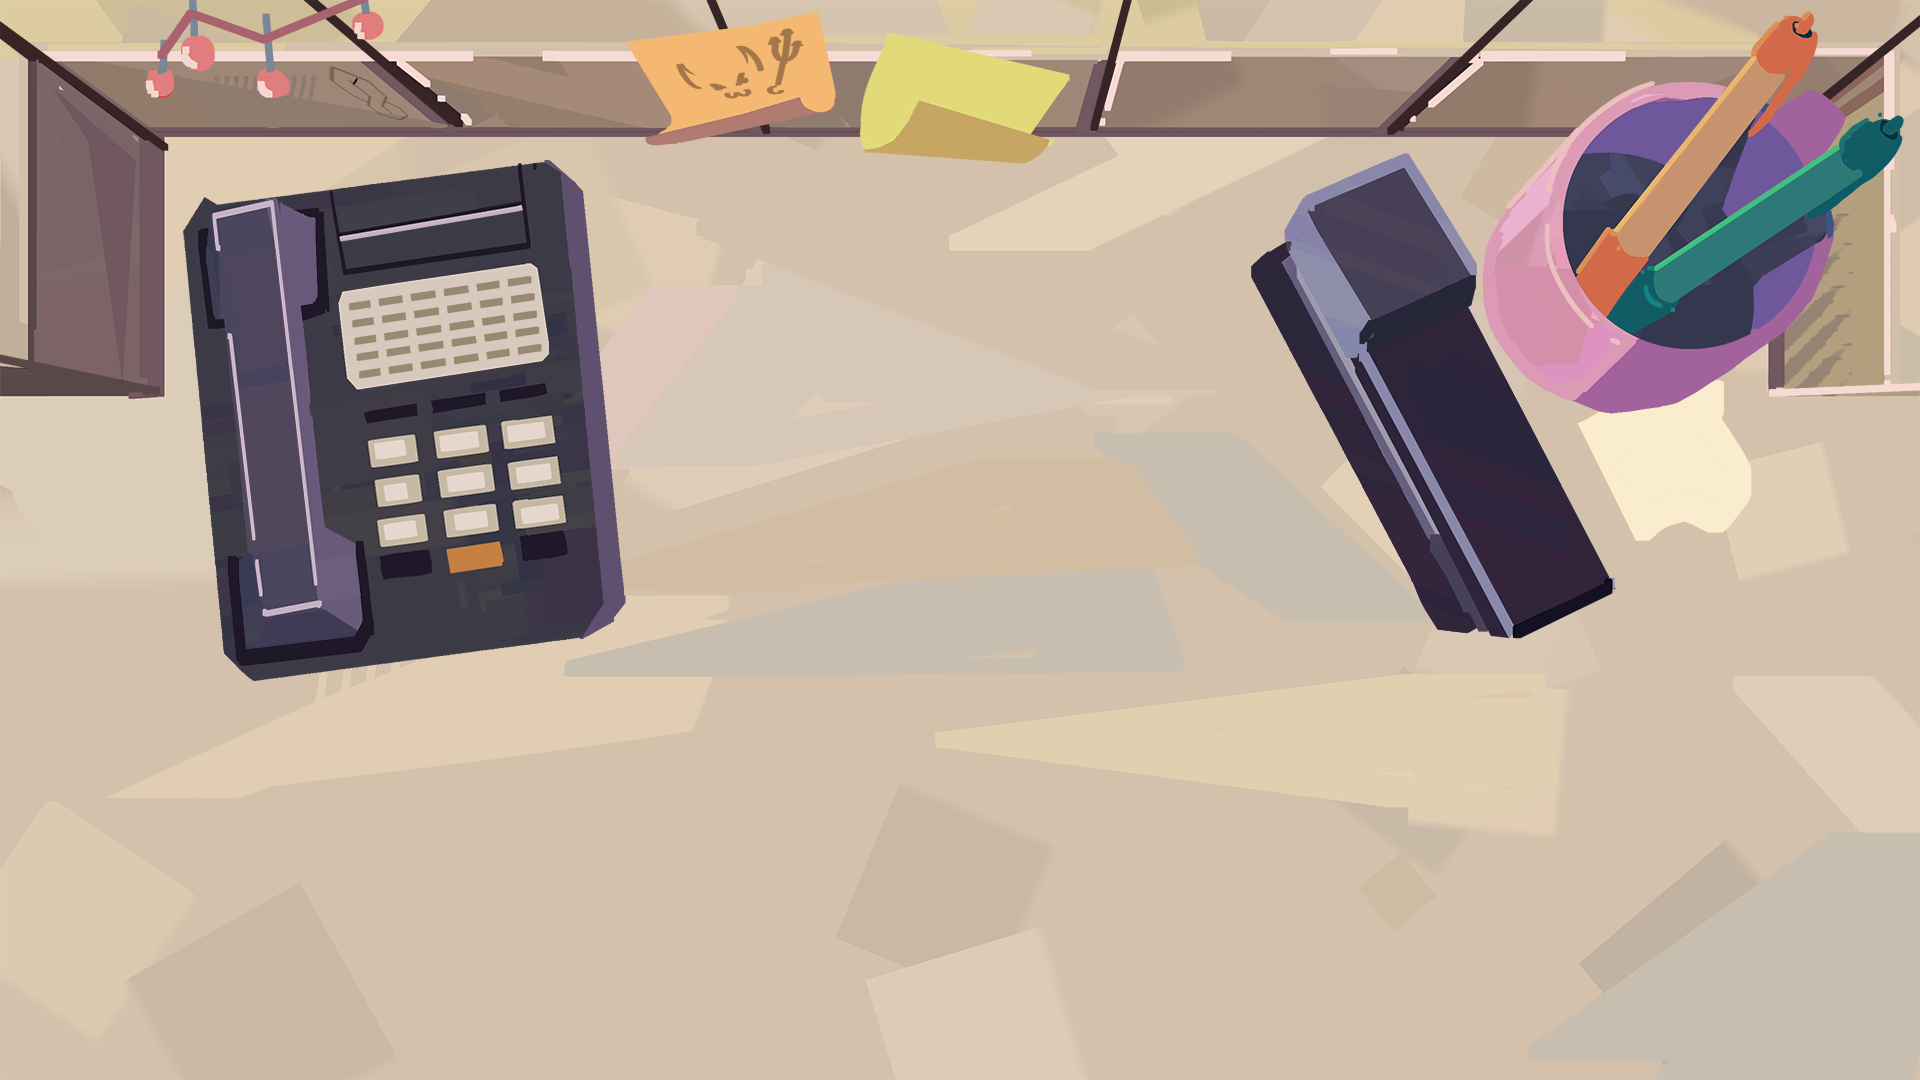
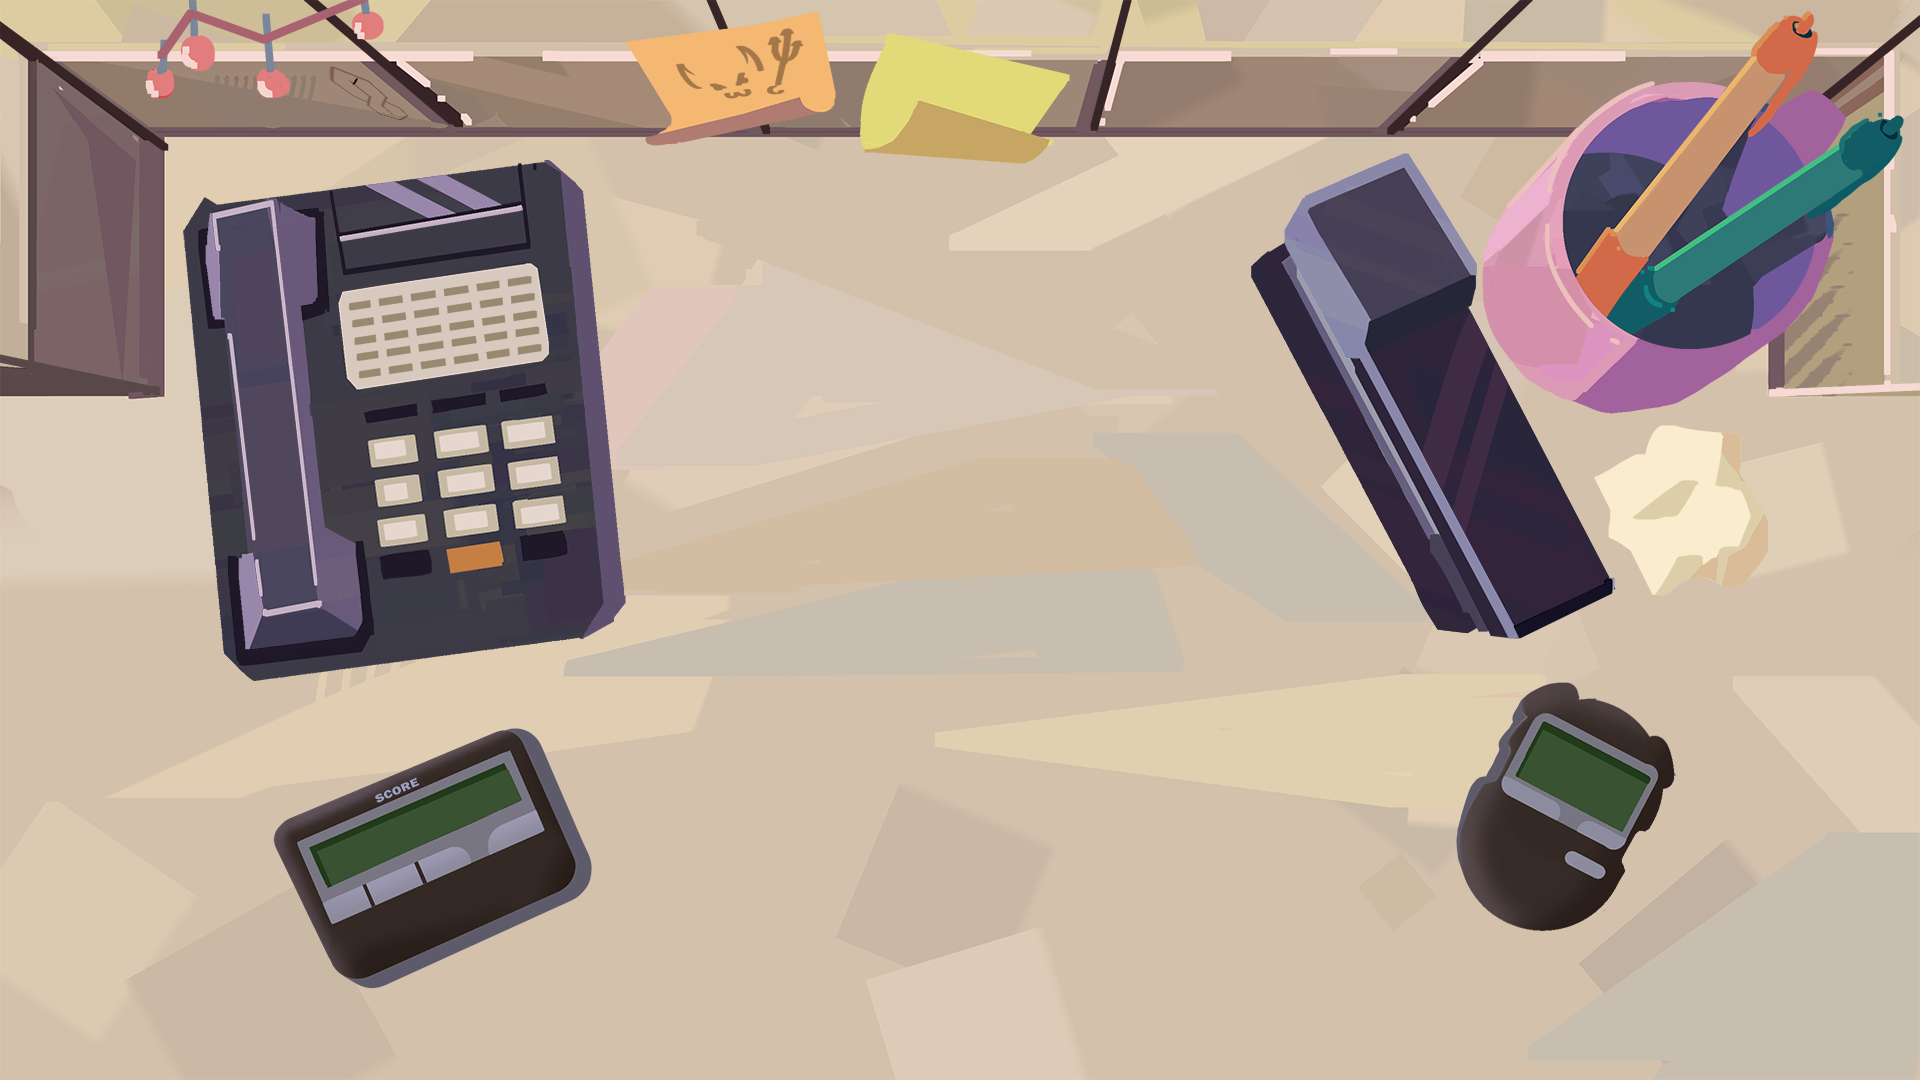
update desk, score, timer

diff --git a/src/scenes/Game.ts b/src/scenes/Game.ts
@@ -1,7 +1,15 @@
 import { Scene } from "phaser";
 import { Paper as Paper } from "../objects/Paper";
-import Button from "../objects/Button";
 import Lives from "../objects/Lives";
+
+const scoreFormatter = new Intl.NumberFormat("en-US", {
+  minimumIntegerDigits: 8,
+  useGrouping: false,
+});
+
+const timeFormatter = new Intl.NumberFormat("en-US", {
+  minimumIntegerDigits: 2,
+});
 
 const MUSIC = ["thisjobsucks", "middayslump", "delicate"];
 const AVAILABLE_GAMES = [
@@ -73,35 +81,43 @@ export class Game extends Scene {
       .setActive(false);
 
     this.beatTheClockText = this.add
-      .text(20, 950, "Beat the clock", {
+      .text(1400, 840, "Beat the clock", {
         fontSize: 24,
+        fontStyle: "bold",
         color: "#000000",
       })
+      .setRotation(-1.1)
       .setOrigin(0)
       .setVisible(false);
 
     this.surviveText = this.add
-      .text(25, 950, "Survive for", {
+      .text(1400, 840, "Survive for", {
         fontSize: 24,
+        fontStyle: "bold",
         color: "#000000",
       })
+      .setRotation(-1.1)
       .setOrigin(0)
       .setVisible(false);
 
     this.timerText = this.add
-      .text(120, 1000, "00s", {
-        fontSize: 32,
+      .text(1550, 736, "00s", {
+        fontSize: 54,
         color: "#ff0000",
+        stroke: "#000000",
+        strokeThickness: 4,
       })
+      .setRotation(0.48)
       .setOrigin(0);
 
     this.scoreText = this.add
-      .text(0, 0, `Demons Summoned: ${this.score}`, {
+      .text(318, 848, scoreFormatter.format(this.score), {
         fontSize: 40,
         color: "#ff0000",
         stroke: "#000000",
         strokeThickness: 4,
       })
+      .setRotation(-0.42)
       .setOrigin(0);
 
     this.livesView = new Lives(this);
@@ -129,7 +145,7 @@ export class Game extends Scene {
       this.timerEvent?.remove();
       this.paper.setActive(true).setFrame(1);
       this.score++;
-      this.scoreText.setText(`Demons Summoned: ${this.score}`);
+      this.scoreText.setText(scoreFormatter.format(this.score));
     }
   };
 
@@ -181,7 +197,7 @@ export class Game extends Scene {
     this.timerTickEvent = this.time.addEvent({
       delay: 1000,
       callback: () => {
-        this.timerText.setText(`${this.timerSeconds}s`);
+        this.timerText.setText(`${timeFormatter.format(this.timerSeconds)}s`);
         this.timerSeconds--;
       },
       repeat: this.timerSeconds,

diff --git a/src/objects/Lives.ts b/src/objects/Lives.ts
@@ -1,6 +1,6 @@
 export default class Lives extends Phaser.GameObjects.Image {
   constructor(scene: Phaser.Scene) {
-    super(scene, 320, 1016, "baphomet");
+    super(scene, 72, 1016, "baphomet");
     scene.add.existing(this);
     this.setOrigin(0.5).setRotation(Math.PI);
   }
